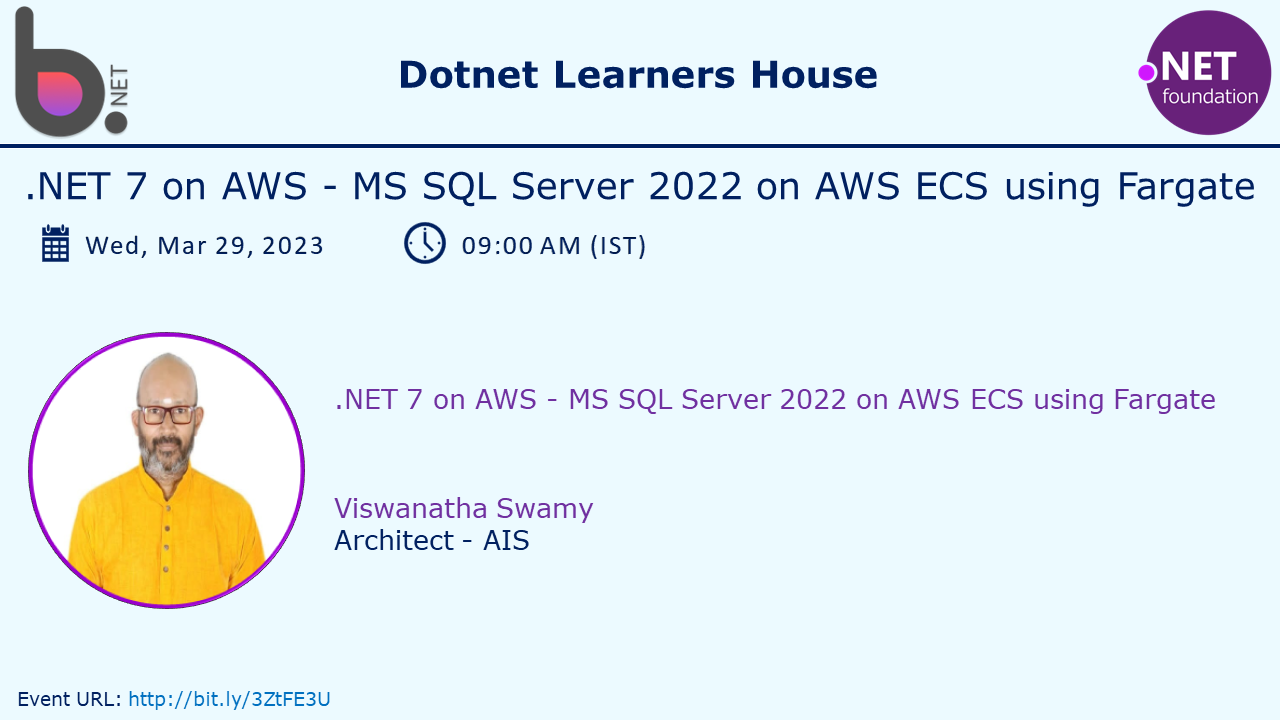
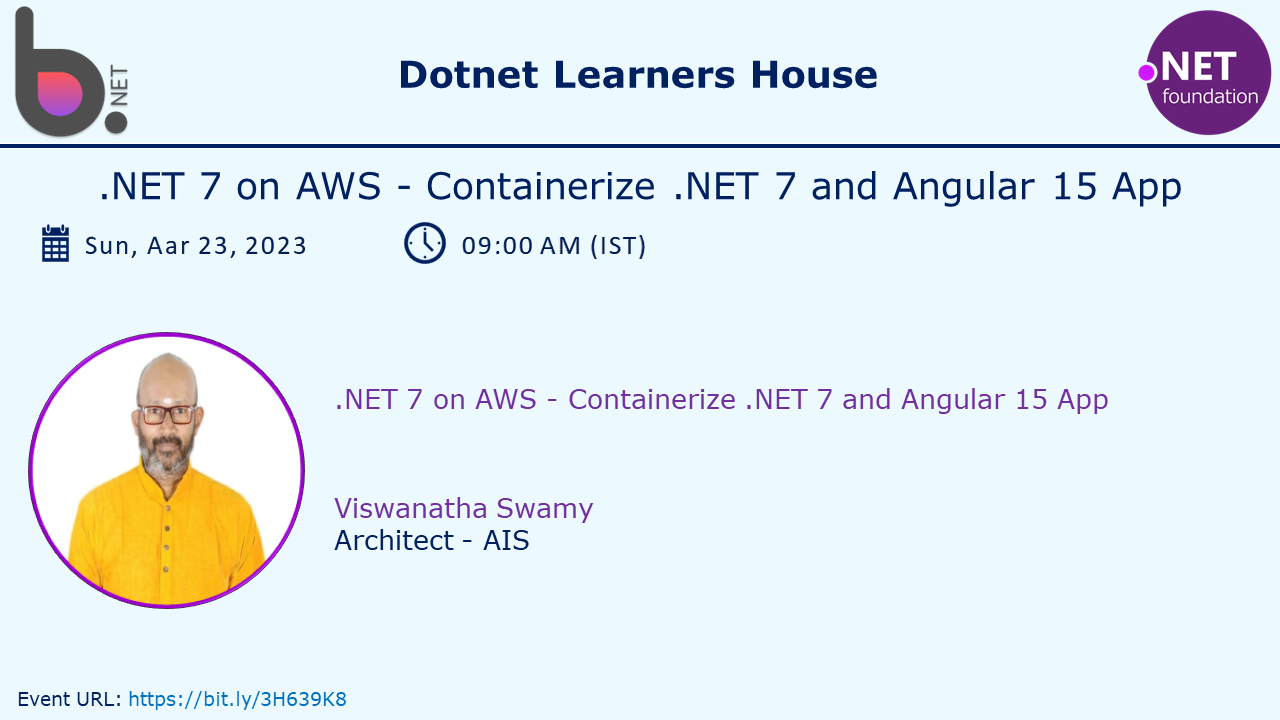
Documentation Updates

diff --git a/dotnet-6-on-aws/Fargate_ECS_S4/README.md b/dotnet-6-on-aws/Fargate_ECS_S4/README.md
@@ -1,10 +1,10 @@
-# .NET 7 on AWS - MS SQL Server 2022 on AWS ECS using Fargate
+# .NET 7 on AWS - Dockerfile Deep Dive, and Containerize .NET 7 and Angular 15 App
 
-## Date Time: 29-Mar-2023 at 09:00 AM IST
+## Date Time: 23-Aar-2023 at 09:00 AM IST
 
-## Event URL: [https://www.meetup.com/dot-net-learners-house-hyderabad/events/291609779/](https://www.meetup.com/dot-net-learners-house-hyderabad/events/291609779/)
+## Event URL: [https://www.meetup.com/dot-net-learners-house-hyderabad/events/292399294](https://www.meetup.com/dot-net-learners-house-hyderabad/events/292399294)
 
-## YouTube URL: [https://www.youtube.com/watch?v=a8GdSOASGps](https://www.youtube.com/watch?v=a8GdSOASGps)
+## YouTube URL: [https://www.youtube.com/watch?v=85my3e6IxRU](https://www.youtube.com/watch?v=85my3e6IxRU)
 
 ![Viswanatha Swamy P K |150x150](./Documentation/Images/ViswanathaSwamyPK.PNG)
 
@@ -37,16 +37,17 @@
 > 1. Quick Recap of the `previous sessions`
 >    - [https://www.youtube.com/watch?v=Ydd8FQvHr3Q](https://www.youtube.com/watch?v=Ydd8FQvHr3Q)
 >    - [https://www.youtube.com/watch?v=2QUHjKsFhYA](https://www.youtube.com/watch?v=2QUHjKsFhYA)
-> 1. Deploying MS SQL Server on Local Docker
->    - Creating MS SQL Server 2022 Container on Local Docker
->    - Connecting to MS SQL Server 2022 hosted on Local Docker using VS Code
->    - Connecting to MS SQL Server 2022 hosted on Local Docker using Azure Data Studio
->    - Creating Database, Table, and Data on MS SQL Server 2022 using VS Code / Azure Data Studio / sqlcmd
-> 1. Deploying MS SQL Server on AWS ECS using Fargate
->    - Create Container, Task Definition, and Service on AWS ECS using AWS Console
->    - Connecting to MS SQL Server 2022 hosted on AWS ECS using Azure Data Studio
->    - Creating Database, Table, and Data on MS SQL Server 2022 using Azure Data Studio
->    - Create Container, Task Definition, and Service on AWS ECS using AWS Console
+>    - [https://www.youtube.com/watch?v=a8GdSOASGps](https://www.youtube.com/watch?v=a8GdSOASGps)
+> 1. Dockerfile Deep Dive
+>    - Simple Dockerfile
+>    - Multi Stage Dockerfile
+> 1. Tools to create Dockerfile
+>    - Manual
+>    - VS Code Extension
+>    - VS 2022
+> 1. Dockerizing .NET Web API
+> 1. Dockerizing Angular 15 SPA
+> 1. Deploying Angular 15 SPA to AWS ECS using Fargate
 > 1. SUMMARY / RECAP / Q&A
 > 1. What is next ?
 
